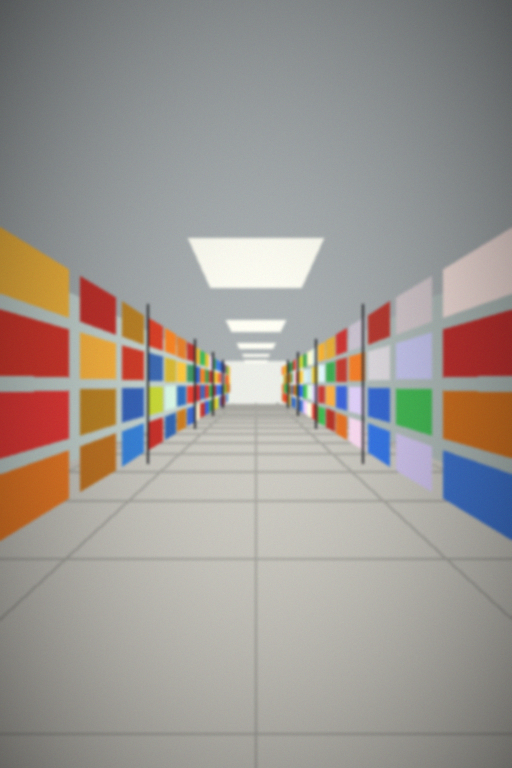
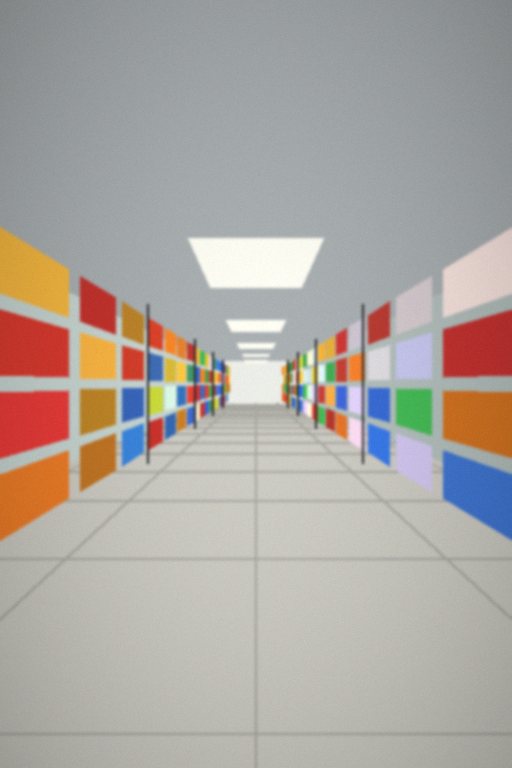
doors: softer interior vignette (no banding), calmer glass reflection at normal incidence

Changed region(s): [[0.0, 0.0, 0.4688, 1.0], [0.5312, 0.0, 1.0, 1.0]]

diff --git a/dev-tools/gen_door_interiors.py b/dev-tools/gen_door_interiors.py
@@ -55,10 +55,10 @@ def render(bright: bool) -> Image.Image:
 	# vignette so the edges recede
 	a = np.array(im).astype(np.float32)
 	yy, xx = np.mgrid[0:H, 0:W]
-	v = 1.0 - 0.45 * (((xx - cx) / (W * 0.65)) ** 2 + ((yy - cy) / (H * 0.7)) ** 2)
+	v = 1.0 - 0.22 * (((xx - cx) / (W * 0.65)) ** 2 + ((yy - cy) / (H * 0.7)) ** 2)
 	a *= np.clip(v, 0.35, 1.0)[..., None]
 	# A little noise so the vignette doesn't band when it's seen big.
-	a += rng.normal(0.0, 1.6, a.shape).astype(np.float32)
+	a += rng.normal(0.0, 2.4, a.shape).astype(np.float32)
 	return Image.fromarray(np.clip(a, 0, 255).astype(np.uint8))
 
 os.makedirs(OUT, exist_ok=True)
